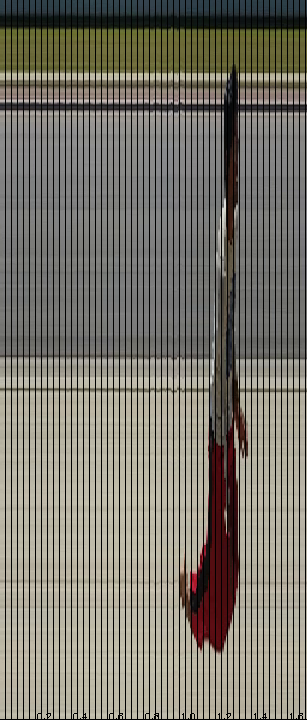
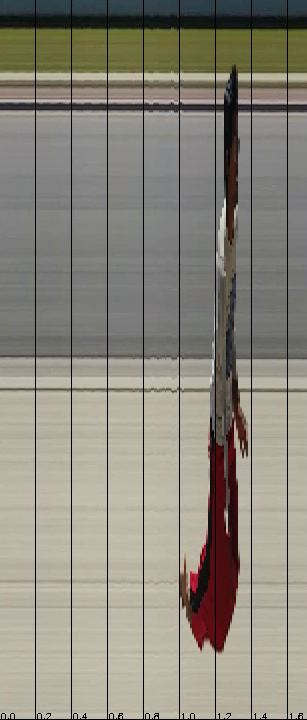
Done for now, still need to fix the FPS error (the time is too slow) and also get the direction of the text right.

Changed region(s): [[0.0, 0.0, 0.9967, 1.0]]

diff --git a/main.py b/main.py
@@ -24,8 +24,8 @@ while cap.isOpened():
     if cv.waitKey(1) == ord('q'):
         break
 black = np.zeros((height, 1, 3), np.uint8)
-for x in range(width-1, 0, -step):
-    output[0:height, x-1:x] = black
+for x in range(0, width, step):
+    output[0:height, ((x*step)-1):((x*step))] = black
     output = cv.putText(output, str(x/30), (int(x * step), height-1), cv.FONT_HERSHEY_SIMPLEX, 0.3, (0, 0, 0))
 
 cv.imwrite("finish.png", output)
